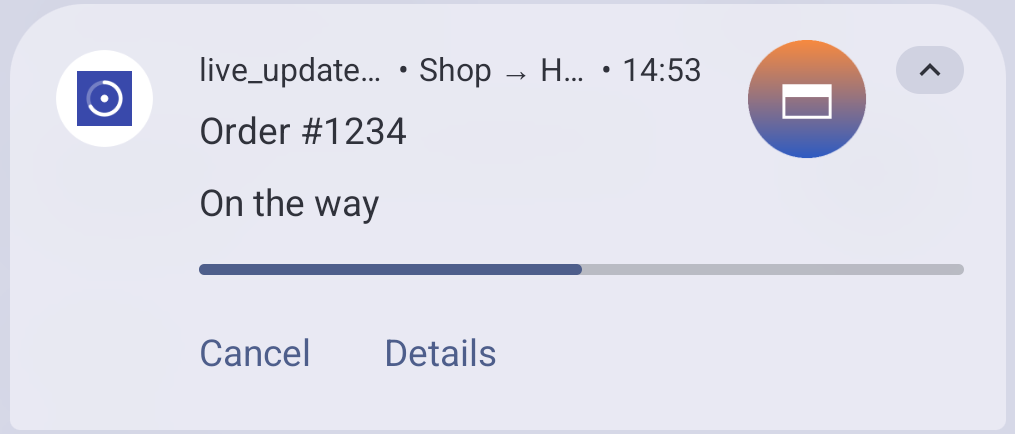
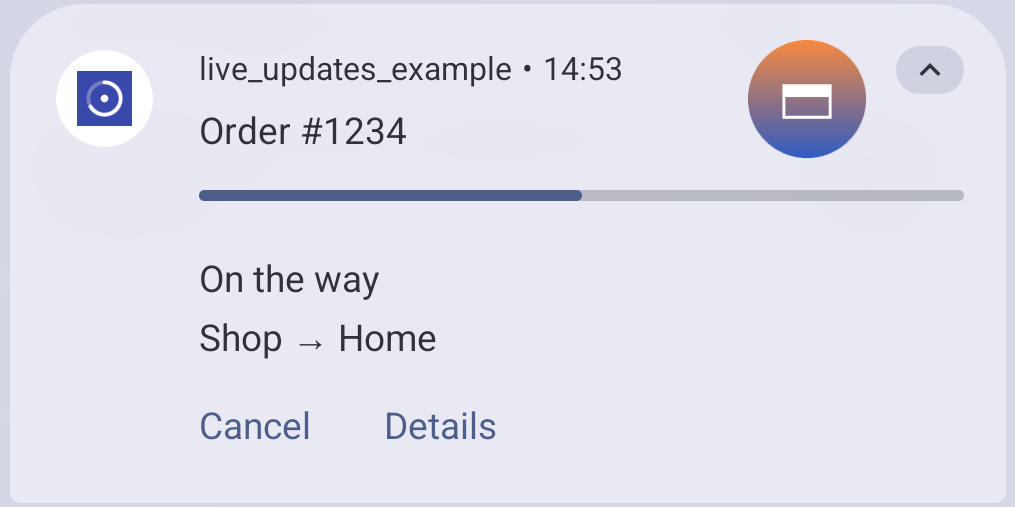
Android: steps, journey and metrics as a second line of a regular notification (#32)
* Android: steps, journey and metrics as a second line of a regular notification

The regular template squeezes the sub text into the header, where it was
cut off; with a body it now becomes a second line of the expanded
notification (BigTextStyle). Android 16+ styles keep it as its own line.

* Limit the second-line change to regular notifications; Android 16+ Live Updates keep the sub text

---------

diff --git a/packages/live_updates/android/src/main/java/com/ttechapp/live_updates/LiveUpdatesBridge.java b/packages/live_updates/android/src/main/java/com/ttechapp/live_updates/LiveUpdatesBridge.java
@@ -931,6 +931,7 @@ public final class LiveUpdatesBridge {
         stepCount == 0 ? 0 : Math.max(0, Math.min(steps.optInt("current", 0), stepCount - 1));
     String mode = androidMode(content);
     boolean metrics = false;
+    boolean styled = false;
     if (Build.VERSION.SDK_INT >= 36 && !"classic".equals(mode)) {
       requestPromotedOngoing(b, "liveUpdate".equals(mode));
       String chip = optString(content, "shortCriticalText");
@@ -945,17 +946,28 @@ public final class LiveUpdatesBridge {
                 : (double) currentStep / (stepCount - 1);
         b.setStyle(progressStyle(c, content, fraction));
       }
+      // Android 16+ Live Updates keep the sub text as before (ProgressStyle and
+      // MetricStyle show it as a line of its own).
+      styled = true;
     } else if (hasProgress) {
       b.setProgress(100, progress, false);
     } else if (stepCount >= 2) {
       b.setProgress(stepCount - 1, currentStep, false);
     }
     // Steps, journey and (unless MetricStyle shows them) metrics as text: the
-    // body line when there is no body, else the sub text.
+    // body line when there is no body. Otherwise the sub text on Android 16+
+    // (liveUpdate, ongoing); the regular notification (classic, Android 15 and
+    // earlier) squeezes the sub text into the header, so there it becomes a
+    // second line of the expanded notification instead.
     String detail = detailText(content, !metrics);
     if (detail != null) {
-      if (body == null) b.setContentText(detail);
-      else b.setSubText(detail);
+      if (body == null) {
+        b.setContentText(detail);
+      } else if (styled) {
+        b.setSubText(detail);
+      } else {
+        b.setStyle(new Notification.BigTextStyle().bigText(body + "\n" + detail));
+      }
     }
     return b;
   }

diff --git a/packages/live_updates/android/src/test/java/com/ttechapp/live_updates/LiveUpdatesBridgeTest.java b/packages/live_updates/android/src/test/java/com/ttechapp/live_updates/LiveUpdatesBridgeTest.java
@@ -596,4 +596,32 @@ public class LiveUpdatesBridgeTest {
     LiveUpdatesBridge.takeQueuedActions();
     assertEquals(before + 2, LiveUpdatesBridge.takeCount);
   }
+
+  @Test
+  public void regularNotificationsShowTheDetailAsASecondLine() throws Exception {
+    String id =
+        LiveUpdatesBridge.start(
+            "{\"title\":\"Order\",\"body\":\"On the way\",\"progress\":0.5,"
+                + "\"androidMode\":\"classic\",\"journey\":{\"from\":\"Shop\",\"to\":\"Home\"}}");
+    Notification n = shown(id);
+    // Not in the header, where it would be cut off.
+    assertEquals(null, n.extras.getCharSequence(Notification.EXTRA_SUB_TEXT));
+    assertEquals("On the way", n.extras.getCharSequence(Notification.EXTRA_TEXT).toString());
+    assertEquals(
+        "On the way\nShop \u2192 Home",
+        n.extras.getCharSequence(Notification.EXTRA_BIG_TEXT).toString());
+    assertEquals(50, n.extras.getInt(Notification.EXTRA_PROGRESS));
+  }
+
+  @Test
+  public void liveUpdatesWithoutProgressKeepTheSubText() throws Exception {
+    // Android 16+ (not classic): unchanged, the detail stays the sub text.
+    String id =
+        LiveUpdatesBridge.start(
+            "{\"title\":\"Trip\",\"body\":\"On time\",\"journey\":{\"from\":\"A\",\"to\":\"B\"}}");
+    Notification n = shown(id);
+    assertEquals("A \u2192 B", n.extras.getCharSequence(Notification.EXTRA_SUB_TEXT).toString());
+    assertEquals(null, n.extras.getCharSequence(Notification.EXTRA_BIG_TEXT));
+  }
+
 }

diff --git a/packages/live_updates/CHANGELOG.md b/packages/live_updates/CHANGELOG.md
@@ -1,3 +1,11 @@
+## Unreleased
+
+- Android: in a regular notification (`AndroidLiveUpdateMode.classic`, and
+  Android 15 and earlier) with a body, the steps, journey and metrics text is
+  a second line of the expanded notification instead of being cut off in the
+  header.
+- Docs: screenshots of each layout on iOS and Android.
+
 ## 0.1.0
 
 Breaking changes (from now on they come only with a new minor version):
